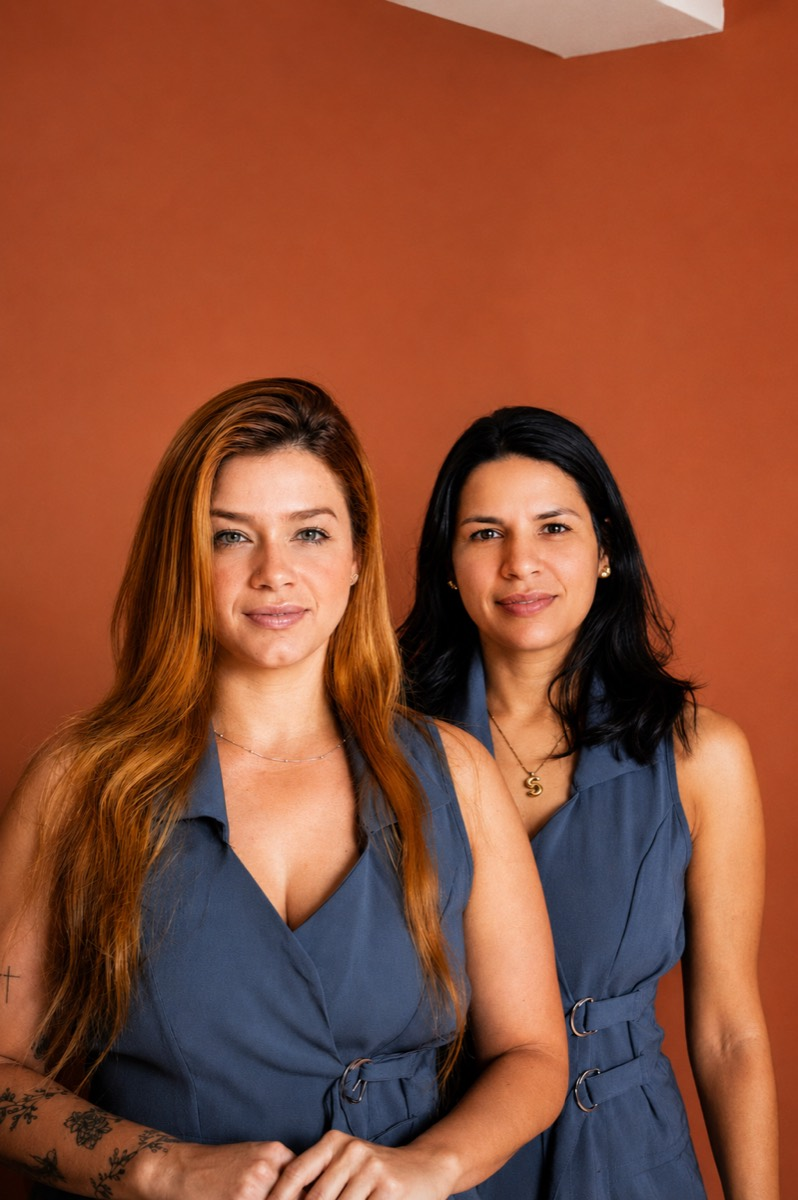
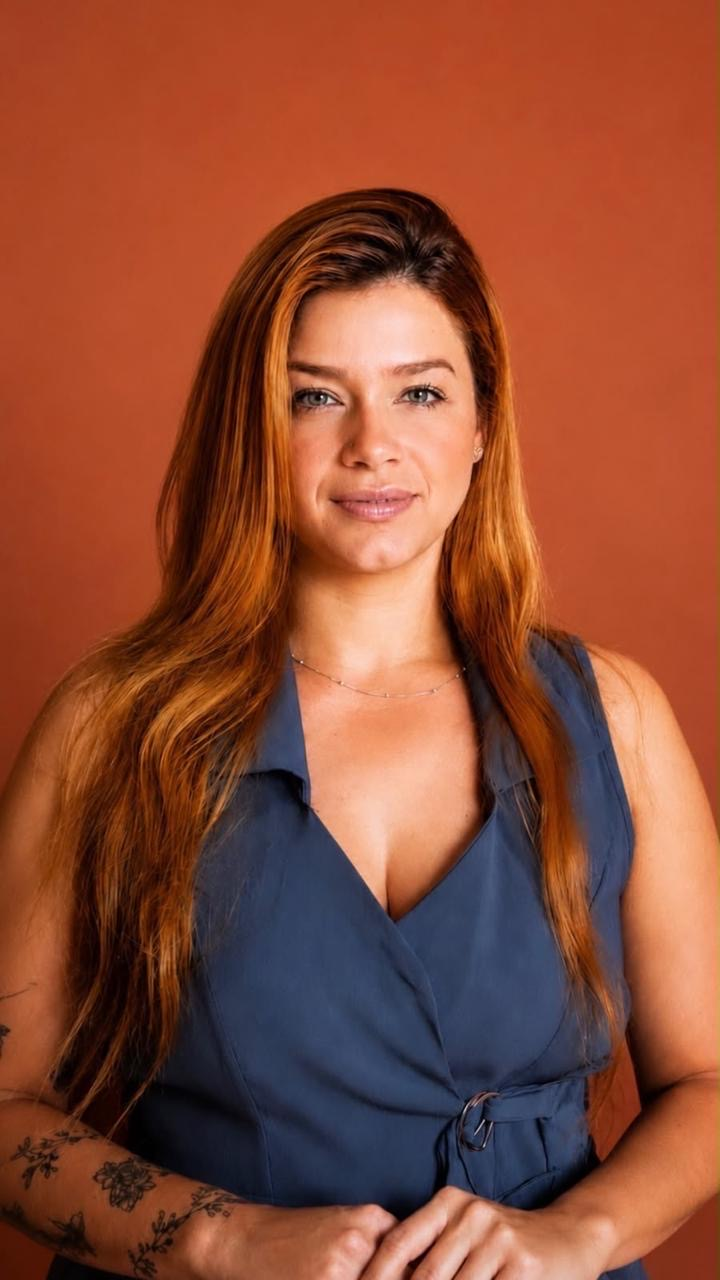
Atualiza fotos: equipe no hero e retrato da Dra. na seção profissional
- Hero passa a usar foto_principal.jpeg (foto da equipe)
- Seção profissional usa o novo retrato individual da Dra. Manuella
- Ajusta dimensões (width/height) para a proporção real das fotos
- Atualiza og:image, twitter:image e Schema.org para a foto da equipe

diff --git a/index.html b/index.html
@@ -20,12 +20,12 @@
 <meta property="og:site_name" content="Odontologia Muniz">
 <meta property="og:title" content="Odontologia Muniz | Dentista em São Paulo">
 <meta property="og:description" content="Atendimento odontológico humanizado para toda a família em São Paulo. Agende sua consulta.">
-<meta property="og:image" content="img/dra_manuella.jpeg">
+<meta property="og:image" content="img/foto_principal.jpeg">
 <meta property="og:url" content="https://www.odontologiamuniz.com.br/">
 <meta name="twitter:card" content="summary_large_image">
 <meta name="twitter:title" content="Odontologia Muniz | Dentista em São Paulo">
 <meta name="twitter:description" content="Atendimento odontológico humanizado para toda a família em São Paulo. Agende sua consulta.">
-<meta name="twitter:image" content="img/dra_manuella.jpeg">
+<meta name="twitter:image" content="img/foto_principal.jpeg">
 
 <!-- Dados estruturados: clínica odontológica + unidades -->
 <script type="application/ld+json">
@@ -33,7 +33,7 @@
   "@context": "https://schema.org",
   "@type": "Dentist",
   "name": "Odontologia Muniz",
-  "image": "https://www.odontologiamuniz.com.br/img/dra_manuella.jpeg",
+  "image": "https://www.odontologiamuniz.com.br/img/foto_principal.jpeg",
   "url": "https://www.odontologiamuniz.com.br/",
   "telephone": "+5511965018274",
   "priceRange": "$$",
@@ -1346,7 +1346,7 @@
   <div class="hero-right">
     <div class="hero-right-bg"></div>
     <div class="hero-placeholder">
-      <img src="img/dra_manuella.jpeg" alt="Odontologia Muniz" width="798" height="1200" fetchpriority="high" decoding="async" />
+      <img src="img/foto_principal.jpeg" alt="Equipe da Odontologia Muniz" width="798" height="1200" fetchpriority="high" decoding="async" />
     </div>
     <div class="hero-stats">
       <div class="stat">
@@ -1480,7 +1480,7 @@
 <!-- PROFISSIONAL -->
 <section class="profissional" id="profissional">
   <div class="prof-photo">
-    <img src="img/dra_manuella.jpeg" alt="Dra. Manuella Andrade" width="798" height="1200" loading="lazy" decoding="async" />
+    <img src="img/dra_manuella.jpeg" alt="Dra. Manuella Andrade" width="720" height="1280" loading="lazy" decoding="async" />
   </div>
   <div class="prof-info">
     <div class="section-label">Nossa equipe</div>
